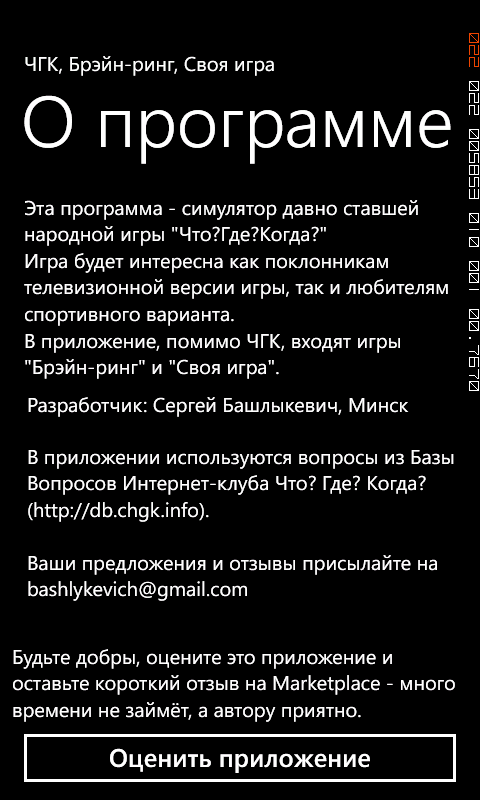
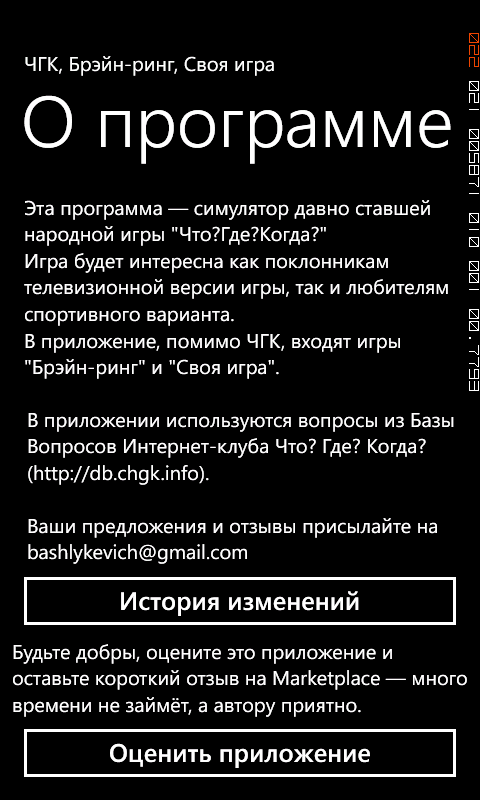
+ добавлена "История изменений" на страницу "О программе" + изменены скриншоты

diff --git a/WhatWhereWhenGame/MainPage.xaml b/WhatWhereWhenGame/MainPage.xaml
@@ -58,7 +58,7 @@
                         VerticalScrollBarVisibility="Visible"
                         HorizontalAlignment="Stretch"
                         VerticalAlignment="Top"
-                        Visibility="Collapsed" >
+                        Visibility="Visible" >
                         <RichTextBox
                             VerticalAlignment="Stretch"                            
                             TextWrapping="Wrap">
@@ -143,22 +143,45 @@
                         <Paragraph>
                            В приложение, помимо ЧГК, входят игры "Брэйн-ринг" и "Своя игра".
                         </Paragraph>
-                    </RichTextBox>
-                    <TextBlock VerticalAlignment="Stretch"
-                       Margin="15,10,0,0"
-                       HorizontalAlignment="Stretch"
-                       Text="Разработчик: Сергей Башлыкевич, Минск"
-                       TextWrapping="Wrap" />
+                    </RichTextBox>                    
                     <TextBlock VerticalAlignment="Stretch"
                        Margin="15,25,0,1"
                        HorizontalAlignment="Stretch"
                        Text="В приложении используются вопросы из Базы Вопросов Интернет-клуба Что? Где? Когда? (http://db.chgk.info)."
                        TextWrapping="Wrap" />
                     <TextBlock VerticalAlignment="Stretch"
-                       Margin="15,25,0,40"
+                       Margin="15,25,0,0"
                        HorizontalAlignment="Stretch"
                        Text="Ваши предложения и отзывы присылайте на bashlykevich@gmail.com"
-                       TextWrapping="Wrap" />                 
+                       TextWrapping="Wrap" />
+                    <TextBlock Name="edtHistory"
+                               Visibility="Collapsed">
+--- релиз версии 1.0.1.0<LineBreak />
++ увеличена высота названия темы СИ<LineBreak />
++ после нажатия на кнопку "засчитать ответ" она прячется<LineBreak />
++ из вопроса СИ вырезается(Аукцион.), [Аукцион.]<LineBreak />
++ в описании заменены дефисы на тире<LineBreak />
++ исправлен приводивший к вылету баг при загрузке вопросов СИ<LineBreak />
++ изменено количество вопросов по умолчанию на 12,12,6<LineBreak />
++ добавлен режим тренировки СИ (без ввода ответа)<LineBreak />
++ целиком переписан парсинг вопросов СИ<LineBreak />
++ возможность просмотр текста вопроса ЧГК и БР после ответа<LineBreak />
++ ввод количества вопросов: убирать клавиатуру по нажатию Enter<LineBreak />
++ редизайн кнопки ответа СИ<LineBreak />
++ в текстовых полях программы ОК по нажатию Enter<LineBreak />
++ прятать клавиатуру по нажатию Enter<LineBreak />
++ редизайн кнопки ответа ЧГК<LineBreak />
++ редизайн кнопки ответа БР<LineBreak />
++ в темах из более чем 5 вопросов удалять лишнее<LineBreak />
++ убраны иногда появляшиеся коды html в названиях тем СИ<LineBreak />
++ обнулять счёт при перегенерации пакеты после отыгрыша<LineBreak />
++ надписи без лишних заглавных<LineBreak />
++ лицензия видна по умолчанию<LineBreak />          
++ добавлена "История изменений" на страницу "О программе"<LineBreak />
+                    </TextBlock>
+                    <Button Name="btnHistory"
+                            Click="btnHistory_Click"
+                            Content="История изменений"/>
                     <TextBlock
                         TextWrapping="Wrap">
                         Будьте добры, оцените это приложение и оставьте короткий отзыв на Marketplace — много времени не займёт, а автору приятно.

diff --git a/WhatWhereWhenGame/MainPage.xaml.cs b/WhatWhereWhenGame/MainPage.xaml.cs
@@ -53,5 +53,14 @@ namespace WhatWhereWhenGame
             MarketplaceReviewTask marketplaceReviewTask = new MarketplaceReviewTask();
             marketplaceReviewTask.Show();
         }
+
+        private void btnHistory_Click(object sender, RoutedEventArgs e)
+        {
+            ShowHistory();
+        }
+        void ShowHistory()
+        {
+            MessageBox.Show(edtHistory.Text, "История изменений", MessageBoxButton.OK);
+        }
     }
 }
